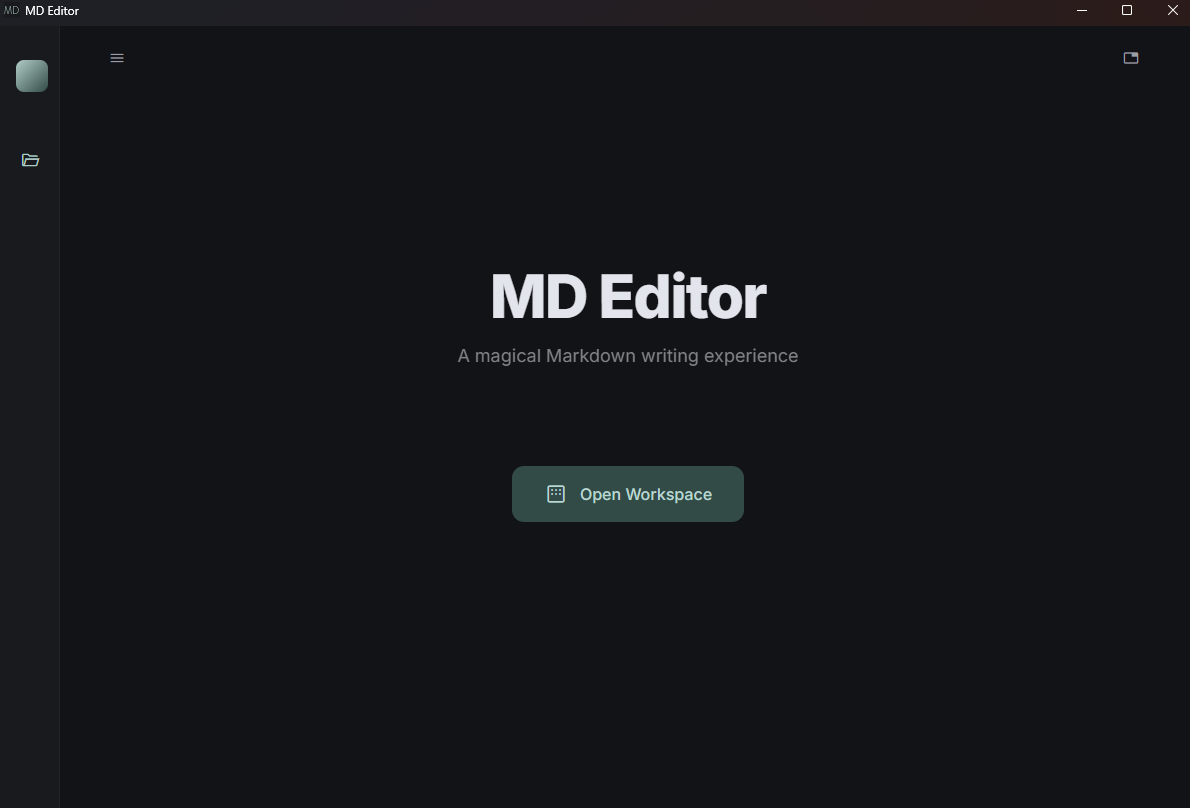
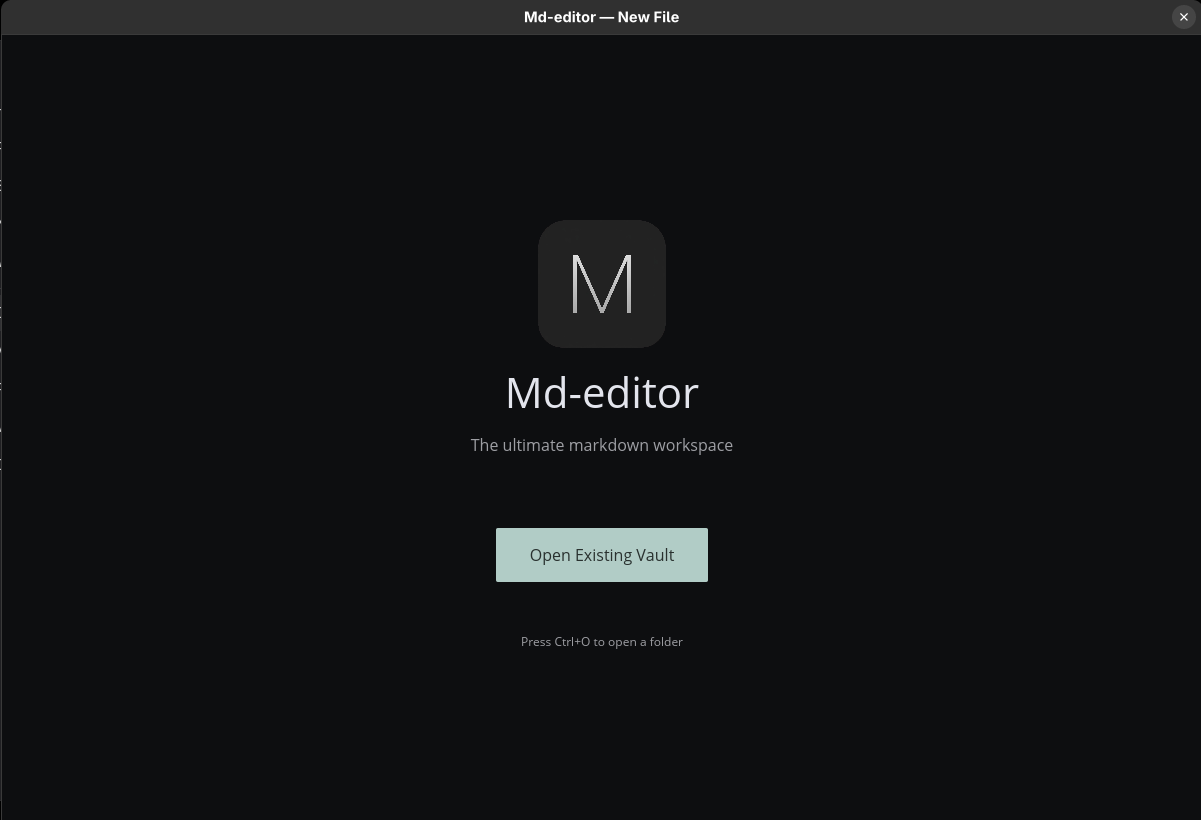
Readme updated

diff --git a/README.md b/README.md
@@ -91,3 +91,10 @@ cargo test
 ## Feature Document
 
 See [docs/FEATURES.md](docs/FEATURES.md) for the version 1 feature document, platform support notes, architecture summary, and release readiness details.
+
+## Screenshots
+![Markdown Editing window](images/markdown_window.png)
+---
+![Split View](images/split_view.png)
+---
+![Study Tracker](images/study_tracker.png)